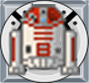
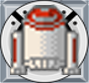
Character selection feature added

diff --git a/src/Settings.java b/src/Settings.java
@@ -4,11 +4,15 @@ import java.awt.Color;
 import java.awt.Font;
 import java.awt.event.ActionEvent;
 import java.awt.event.ActionListener;
+
+import javax.swing.ButtonGroup;
+import javax.swing.ButtonModel;
 import javax.swing.ImageIcon;
 import javax.swing.JButton;
 import javax.swing.JCheckBox;
 import javax.swing.JLabel;
 import javax.swing.JPanel;
+import javax.swing.JRadioButton;
 import javax.swing.border.Border;
 import javax.swing.border.LineBorder;
 
@@ -32,14 +36,14 @@ public class Settings extends JPanel {
 		//Make checkBox selected initially
 		musicBox.setSelected(true);
 		SFXBox.setSelected(true);
-
+		
 		//Set the location of each button
 		int btnWidth = 200;
 		int btnHeight = 50;
 		int startXPos = 400 - btnWidth/2;
 		int startYPos = 150;
-		musicBox.setBounds(startXPos, startYPos, btnWidth, btnHeight);
-		SFXBox.setBounds(startXPos, startYPos + 90, btnWidth, btnHeight);
+		musicBox.setBounds(startXPos, startYPos, btnWidth, btnHeight - 15);
+		SFXBox.setBounds(startXPos, startYPos + 65, btnWidth, btnHeight - 15);
 		backBtn.setBounds(startXPos, startYPos + 290, btnWidth, btnHeight);
 
 
@@ -80,7 +84,52 @@ public class Settings extends JPanel {
 		this.add(musicBox);
 		this.add(SFXBox);
 		this.add(backBtn);
-
+		
+		ButtonGroup costumes = new ButtonGroup();
+		
+		JRadioButton redRobot = new JRadioButton("Red Robot");
+		redRobot.setBounds(startXPos, startYPos + 130, 100, 25);
+		
+		JRadioButton blueRobot = new JRadioButton("Blue Robot");
+		blueRobot.setBounds(startXPos + 100, startYPos + 130, 100, 25);
+		
+		if(settings.isCharacterColorRed()){
+			//Red character selected
+			redRobot.setSelected(true);
+		} else {
+			blueRobot.setSelected(true);
+		}
+		
+		redRobot.addActionListener(new ActionListener(){
+			@Override
+			public void actionPerformed(ActionEvent e) {
+				settings.setIsCharacterRed(true);
+			}
+		});
+		blueRobot.addActionListener(new ActionListener(){
+			@Override
+			public void actionPerformed(ActionEvent e) {
+				settings.setIsCharacterRed(false);
+			}
+		});
+		costumes.add(redRobot);
+		costumes.add(blueRobot);
+		this.add(redRobot);
+		this.add(blueRobot);
+		
+		
+		ImageIcon redRobotImage = new ImageIcon("image/Player1.png");
+		JLabel  redRobotLabel = new JLabel("", redRobotImage, JLabel.CENTER);
+		redRobotLabel.setFont(gameFont);
+		this.add(redRobotLabel);
+		redRobotLabel.setBounds(startXPos, startYPos + 175, 100, 100);
+		
+		ImageIcon blueRobotImage = new ImageIcon("image/Player2.png");
+		JLabel  blueRobotLabel = new JLabel("", blueRobotImage, JLabel.CENTER);
+		blueRobotLabel.setFont(gameFont);
+		this.add(blueRobotLabel);
+		blueRobotLabel.setBounds(startXPos + 100, startYPos + 175, 100, 100);
+		
 		ImageIcon titleImage = new ImageIcon("image/menu_back3.png");
 		JLabel  titleLabel = new JLabel("", titleImage, JLabel.CENTER);
 		this.add(titleLabel);

diff --git a/src/Game.java b/src/Game.java
@@ -208,28 +208,54 @@ public class Game extends JPanel {
 	private ImageIcon resizedImage(int item, int size) {
 
 		String imgLoc = null;
-		switch (item) {
-		case Map.WALL:
-			imgLoc = "image/Wall.png";
-			break;
-		case Map.EMPTY:
-			imgLoc = "image/Empty.png";
-			break;
-		case Map.PLAYER:
-			imgLoc = "image/playerUp.png"; // TODO change player direction
-			break;
-		case Map.BOX:
-			imgLoc = "image/Box.png";
-			break;
-		case Map.GOAL:
-			imgLoc = "image/Goal.png";
-			break;
-		case Map.GOALBOX:
-			imgLoc = "image/GoalBox.png";
-			break;
-		case Map.GOALPLAYER:
-			imgLoc = "image/playerUpGoal.png"; // TODO change player direction
-			break;
+		if (settings.isCharacterColorRed()){
+			switch (item) {
+			case Map.WALL:
+				imgLoc = "image/Wall.png";
+				break;
+			case Map.EMPTY:
+				imgLoc = "image/Empty.png";
+				break;
+			case Map.PLAYER:
+				imgLoc = "image/playerDown.png"; // TODO change player direction
+				break;
+			case Map.BOX:
+				imgLoc = "image/Box.png";
+				break;
+			case Map.GOAL:
+				imgLoc = "image/Goal.png";
+				break;
+			case Map.GOALBOX:
+				imgLoc = "image/GoalBox.png";
+				break;
+			case Map.GOALPLAYER:
+				imgLoc = "image/playerDownGoal.png"; // TODO change player direction
+				break;
+			}
+		} else {
+			switch (item) {
+			case Map.WALL:
+				imgLoc = "image/Wall.png";
+				break;
+			case Map.EMPTY:
+				imgLoc = "image/Empty.png";
+				break;
+			case Map.PLAYER:
+				imgLoc = "image/player2Down.png"; // TODO change player direction
+				break;
+			case Map.BOX:
+				imgLoc = "image/Box.png";
+				break;
+			case Map.GOAL:
+				imgLoc = "image/Goal.png";
+				break;
+			case Map.GOALBOX:
+				imgLoc = "image/GoalBox.png";
+				break;
+			case Map.GOALPLAYER:
+				imgLoc = "image/player2DownGoal.png"; // TODO change player direction
+				break;
+			}
 		}
 
 		BufferedImage img = null;

diff --git a/src/GameSettings.java b/src/GameSettings.java
@@ -2,11 +2,13 @@
 public class GameSettings {
 	private boolean enableMusic;
 	private boolean enableSFX;
+	private boolean isCharacterRed; //Set character color: True for Red; False for Blue
 	private String spriteSet;//the location of the sprite set being used
 	
 	public void GameSetings(){
 		enableMusic = true;
 		enableSFX = true;
+		isCharacterRed = true;
 		spriteSet = "images/";
 	}
 	
@@ -33,6 +35,14 @@ public class GameSettings {
 
 	public void setSpriteSet(String spriteSet) {
 		this.spriteSet = spriteSet;
+	}
+	
+	public boolean isCharacterColorRed(){
+		return isCharacterRed;
+	}
+	
+	public void setIsCharacterRed(boolean enableRed){
+		isCharacterRed = enableRed;
 	}
 	
 }
